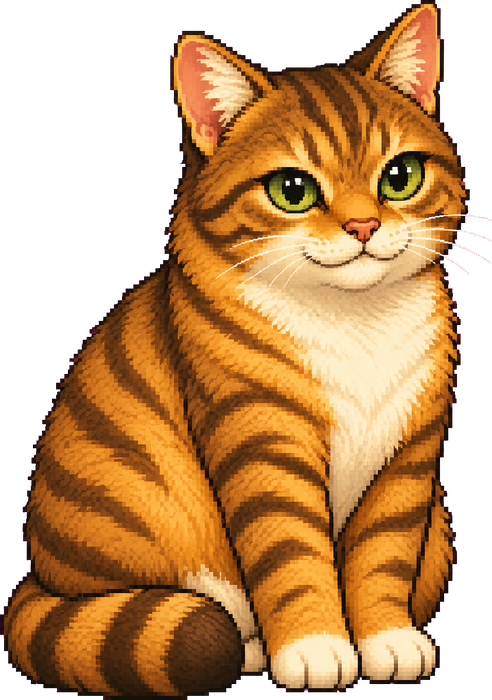
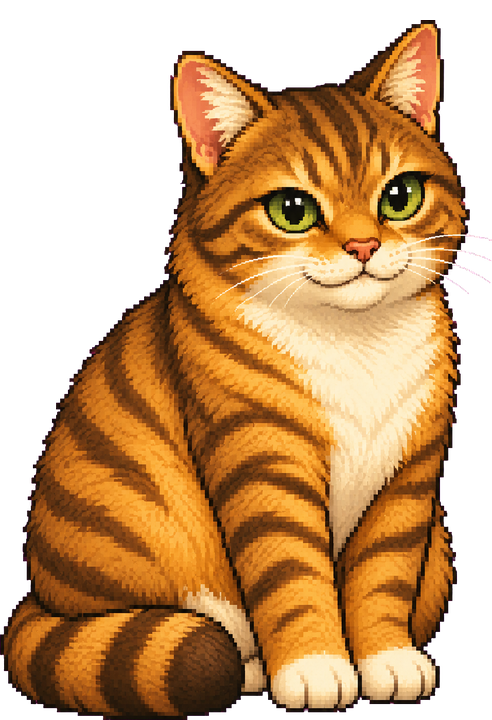
Puiutu: a painted leaf PLAY button, sound and full screen in Settings, NomNom's faces change in her shop
Settings now holds full screen, music on/off, sound effects on/off and Reset game;
the profile drops the friends, achievements and sound buttons, and the location
title over the game is gone. In the forge NomNom laughs at a sale, gets curious
about what you pick, and blinks while she waits.

diff --git a/life_of_puiutu_game.html b/life_of_puiutu_game.html
@@ -127,8 +127,6 @@
   .back-btn{pointer-events:auto;cursor:pointer;background:rgba(20,14,8,.65);border:2px solid #6b4a1f;border-radius:14px;
     padding:6px 12px;color:#ffe7b0;font-weight:bold;font-size:13px;}
   #btnRocky.staying{background:rgba(60,40,16,.8);border-color:#9c7233;color:#caa46a;}
-  .area-name{position:absolute;top:54px;left:0;right:0;text-align:center;color:#fff;font-size:13px;
-    text-shadow:0 2px 5px rgba(0,0,0,.7);z-index:5;opacity:.85;pointer-events:none;}
 
   /* on-screen controls */
   .touch-ctrl{position:absolute;bottom:18px;z-index:6;display:flex;gap:12px;}
@@ -869,7 +867,7 @@
   #museum .fs-tag{left:0;top:0;width:24%;font-size:calc(var(--fs)*.95);transform:translate(-50%,calc(-100% - .8em));z-index:6;}
   #museum .fs-tag.on{animation:muPop .16s ease-out;}
   @keyframes muPop{from{opacity:0;transform:translate(-50%,calc(-100% - .2em));}to{opacity:1;transform:translate(-50%,calc(-100% - .8em));}}
-  #forgeCat{position:absolute;left:79.5%;bottom:18.5%;height:52%;z-index:2;transform:translateX(-50%);
+  #forgeCat{position:absolute;left:79.5%;bottom:18.5%;height:53.5%;z-index:2;transform:translateX(-50%);
     transform-origin:50% 100%;animation:fsBreath 3.4s ease-in-out infinite;pointer-events:none;}
   @keyframes fsBreath{0%,100%{transform:translateX(-50%) scale(1,1);}50%{transform:translateX(-50%) scale(1.006,1.022);}}
   #forgeCat.nod{animation:fsNod .45s ease-out;}
@@ -1055,7 +1053,8 @@
   /* settings: the moved language flags and mode buttons sit in normal flow there */
   #settingsBody{padding:18px;color:#ffe7b0;}
   .set-h{font-size:16px;margin:6px 0 10px;color:#ffd36b;}
-  #settingsBody #langPick, #settingsBody #modePick{position:static;margin-bottom:18px;}
+  #settingsBody #langPick, #settingsBody #modePick, #settingsBody .set-pick{position:static;margin-bottom:18px;}
+  .set-pick{display:flex;gap:8px;}
   .phone-app{flex:1;min-width:0;background:none;border:none;cursor:pointer;display:flex;flex-direction:column;
     align-items:center;gap:5px;padding:0 1px;}
   .pa-ico{width:60%;aspect-ratio:1;background-position:center;background-repeat:no-repeat;background-size:auto 100%;
@@ -1114,11 +1113,6 @@
   #menu #btnPlay{width:clamp(180px,24%,380px);bottom:7%;}
   /* settings signboard: gear on top, the word on its plank (plank = bottom 27% of the art) */
   #btnMenuSettings{right:2.5%;bottom:5%;width:clamp(78px,9%,120px);}
-  #btnFullscreen{position:absolute;left:2.5%;bottom:5%;z-index:6;width:clamp(44px,4.6%,58px);aspect-ratio:1;padding:0;border-radius:12px;cursor:pointer;
-    background:rgba(16,12,8,.62);border:2px solid rgba(243,226,180,.55);box-shadow:0 3px 10px rgba(0,0,0,.45);transition:transform .12s,background .12s;}
-  #btnFullscreen:hover{transform:scale(1.08);background:rgba(36,28,18,.8);}
-  #btnFullscreen svg{width:62%;height:62%;fill:none;stroke:#f3e2b4;stroke-width:2.4;stroke-linecap:round;stroke-linejoin:round;}
-  #btnFullscreen .fsOff{display:none;} body.isFull #btnFullscreen .fsOn{display:none;} body.isFull #btnFullscreen .fsOff{display:inline;}
   #btnMenuSettings img{width:100%;display:block;}
   #btnMenuSettings span{position:absolute;left:8%;right:8%;bottom:7%;height:17%;display:flex;align-items:center;justify-content:center;
     font:bold clamp(10px,1.3vw,15px) 'Trebuchet MS',sans-serif;color:#fff1d0;text-shadow:0 1px 0 #3a1f0c,0 0 3px #3a1f0c;pointer-events:none;}
@@ -1199,7 +1193,6 @@
   body.cine #interactBtn, body.cine #interactPrompt, body.cine #fightBtn,
   body.cine #toast, body.cine .statbar{display:none !important;}
   body.cine{cursor:none;}
-  body.cine .area-name{font-size:15px;letter-spacing:3px;text-shadow:0 2px 8px rgba(0,0,0,.9);}
   body.cine.bars #app::before, body.cine.bars #app::after{
     content:'';position:absolute;left:0;right:0;height:11.5%;background:#000;z-index:60;pointer-events:none;}
   body.cine.bars #app::before{top:0;} body.cine.bars #app::after{bottom:0;}
@@ -1232,11 +1225,6 @@ document.addEventListener('DOMContentLoaded', ()=>{ updateMenuSky(); setInterval
       <button class="img-btn" id="btnProfile" style="display:none;"><img src="ui/btn_profile2.png" alt="Profile"></button>
       <button class="img-btn" id="btnInv" style="display:none;"><img src="ui/btn_inventory.png" alt="Inventory"></button>
       <button class="img-btn play" id="btnPlay"><img src="ui/btn_play.png" alt="Play"></button>
-      <!-- full screen, like a video player's: the whole screen is the game until Esc -->
-      <button id="btnFullscreen" title="Full screen" aria-label="Full screen">
-        <svg class="fsOn" viewBox="0 0 24 24"><path d="M4 9V4h5M15 4h5v5M20 15v5h-5M9 20H4v-5"/></svg>
-        <svg class="fsOff" viewBox="0 0 24 24"><path d="M9 4v5H4M20 9h-5V4M15 20v-5h5M4 15h5v5"/></svg>
-      </button>
       <button class="img-btn" id="btnMenuSettings" title="Settings"><img src="ui/btn_settings_sign.png" alt=""><span>Settings</span></button>
 
       <!-- language: drawn as inline SVG so it needs no art and stays crisp at any size -->
@@ -1280,7 +1268,6 @@ document.addEventListener('DOMContentLoaded', ()=>{ updateMenuSky(); setInterval
         <div class="chip" id="onlineChip" style="display:none;">Online <span id="hudOnline">1</span></div>
       </div>
     </div>
-    <div class="area-name" id="areaName">Garden</div>
     <div id="questHUD"></div>
     <canvas id="gameCanvas"></canvas>
 
@@ -1443,12 +1430,16 @@ document.addEventListener('DOMContentLoaded', ()=>{ updateMenuSky(); setInterval
     </div>
   </div>
 
-  <!-- ============ SETTINGS (from the phone): language, story / free play ============ -->
+  <!-- ============ SETTINGS: language, story / free play, full screen, music, sound effects ============ -->
   <div id="settings" class="modal">
     <div class="modal-head"><h2>Settings</h2><button class="modal-close" data-close="settings"></button></div>
     <div class="modal-body" id="settingsBody">
       <h3 class="set-h">Language</h3><div id="setLang"></div>
       <h3 class="set-h">Game mode</h3><div id="setMode"></div>
+      <h3 class="set-h" id="setFullH">Screen</h3><div class="set-pick" id="setFullRow"><button class="mode-btn" id="setFull">FULLSCREEN</button></div>
+      <h3 class="set-h">Music</h3><div class="set-pick"><button class="mode-btn" id="setMusicOn">ON</button><button class="mode-btn" id="setMusicOff">OFF</button></div>
+      <h3 class="set-h">Sound effects</h3><div class="set-pick"><button class="mode-btn" id="setSfxOn">ON</button><button class="mode-btn" id="setSfxOff">OFF</button></div>
+      <button id="resetBtn" style="margin-top:8px;background:#b5453a;border:2px solid #7a2c24;color:#fff;padding:8px 14px;border-radius:12px;font-weight:bold;cursor:pointer;">↺ Reset game</button>
     </div>
   </div>
 
@@ -4680,6 +4671,7 @@ const RO = {
   "Settings":"Setări",
   "Language":"Limbă",
   "Game mode":"Mod de joc",
+  "Screen":"Ecran", "FULLSCREEN":"ECRAN COMPLET", "Sound effects":"Efecte sonore", "ON":"PORNIT", "OFF":"OPRIT",
   "Best":"Record",
   "Make: Apple":"Fă: Măr",
   "↺ Restart":"↺ Reîncepe",
@@ -5753,7 +5745,6 @@ function enterArea(id,fromRight,toX){
   A.entryX=P.x;                                      // where a faint puts you back: the way you came in
   P.y=480;P.vx=0;P.vy=0;
   nearPortal=null;
-  document.getElementById('areaName').textContent=A.name;
   particles=[]; bananas=[]; bubbles=[];
   // top-down hub vs side-scroll platformer: set up the right mode + on-screen controls
   HUB.inited=false;
@@ -15730,6 +15721,7 @@ function renderStatbars(){
 
 //═══════════════════════════════════════════════════════════════ MODAL RENDER
 function renderModal(id){
+  if(id==='settings')syncSoundSwitches();
   if(id==='shop')renderShop();
   if(id==='forge')renderForge();
   if(id==='museum')renderMuseum();
@@ -15924,17 +15916,26 @@ const FORGE_SAY={
   bell:['Rune bell. Every ring makes your spells bite harder. Do not ring it at night.','Clopoțel runic. Fiecare clinchet face vrăjile să muște mai tare. Nu-l suna noaptea.'],
 };
 let forgeTab='goods', forgeNpc=null, forgeAfterDlg=false, forgeSel=null;
-// NomNom's two faces: content, and the look she gives a cat with empty pockets
-const FORGE_FACE={ happy:'ui/forge/nomnom_shop.png', angry:'ui/forge/nomnom_shop_angry.png' };
+// NomNom's faces: content, delighted at a sale, curious about what you're eyeing, a blink while she
+// waits, and the look she gives a cat with empty pockets
+const FORGE_FACE={ happy:'ui/forge/nomnom_shop.png', angry:'ui/forge/nomnom_shop_angry.png',
+  delighted:'ui/forge/nomnom_shop_delighted.png', curious:'ui/forge/nomnom_shop_curious.png', blink:'ui/forge/nomnom_shop_blink.png' };
 Object.values(FORGE_FACE).forEach(src=>{ const im=new Image(); im.src=src; });   // preload, so the swap never blinks
-let forgeMoodT=0;
+let forgeMoodT=0, forgeFace='happy';
 function forgeMood(m,ms){
   const cat=document.getElementById('forgeCat'); if(!cat) return;
-  const src=FORGE_FACE[m]||FORGE_FACE.happy;
+  const src=FORGE_FACE[m]||FORGE_FACE.happy; forgeFace=m;
   if(!cat.src.endsWith(src)) cat.src=src;
   clearTimeout(forgeMoodT);
   if(m!=='happy' && ms) forgeMoodT=setTimeout(()=>forgeMood('happy'),ms);
 }
+// while the shop is open and she is just content, she blinks every few seconds
+(function forgeBlink(){
+  setTimeout(()=>{ const shop=document.getElementById('forge'), cat=document.getElementById('forgeCat');
+    if(shop && shop.classList.contains('active') && forgeFace==='happy' && cat){
+      cat.src=FORGE_FACE.blink; setTimeout(()=>{ if(forgeFace==='happy') cat.src=FORGE_FACE.happy; },150); }
+    forgeBlink(); }, 2600+Math.random()*3400);
+})();
 const FORGE_BROKE=[
   ['No coins, no broth. That is the whole rule.','Fără monede, fără supă. Asta e toată regula.'],
   ['You are looking at it like it is free. It is not free.','Te uiți la ea de parcă e gratis. Nu e gratis.'],
@@ -16030,7 +16031,7 @@ function forgePick(id){
     const w=forgeWares().find(x=>x.id===id);
     const gated=w && ((w.kind==='forge' && !w.maxed && S.level<FORGE_LV[w.tier]) || (w.kind==='charm' && S.level<w.c.lv));
     if(w && !w.owned && !w.maxed && !gated && S.coins<w.price){ forgeBroke(); renderForge(); return; }
-    forgeMood('happy');
+    forgeMood('curious',3500);
     forgeSay(say?LT(say[0],say[1]):(w&&w.kind==='trick'?LT('A good trick. Merlin swears by it.','Un truc bun. Merlin jură pe el.'):'…'));
     SFX.tone&&SFX.tone(700,0.05,'triangle',0.04); }
   renderForge();
@@ -16077,7 +16078,7 @@ function renderForgeTag(wares){
 }
 const FORGE_THANKS=[['Pleasure doing business.','Plăcerea e de partea mea.'],['Coins on the anvil. Good cat.','Monedele pe nicovală. Pisică bună.'],
   ['Spend it well. Or badly — I already have the coins.','Folosește-o bine. Sau prost — monedele sunt deja la mine.'],['Come back alive, I like repeat customers.','Să te întorci viu, îmi plac clienții fideli.']];
-function forgeThanks(){ const t=FORGE_THANKS[Math.floor(Math.random()*FORGE_THANKS.length)]; forgeSay(LT(t[0],t[1])); forgeMood('happy'); }
+function forgeThanks(){ const t=FORGE_THANKS[Math.floor(Math.random()*FORGE_THANKS.length)]; forgeSay(LT(t[0],t[1])); forgeMood('delighted',2600); }
 function buyCharm(id){
   const c=charmById(id); if(!c || charmOwned(id) || S.coins<c.price || S.level<c.lv) return;
   S.coins-=c.price; S.charmsOwned=S.charmsOwned||[]; S.charmsOwned.push(id);
@@ -16221,10 +16222,6 @@ function journalHTML(){
 function renderProfile(){
   const body=document.getElementById('profileBody');
   const need=xpForLevel(S.level);
-  const catsHTML=Object.keys(CATS).filter(k=>k!=='puiutu').map(k=>{
-    const met=S.catsMet[k];
-    return `<div class="cat-badge ${met?'':'locked'}"><div class="av"><canvas width="58" height="58" data-cat="${k}"></canvas></div>${met?CATS[k].name:'???'}</div>`;
-  }).join('');
   body.innerHTML=`
     <div class="profile-card">
       <img src="ui/profile_pic.png" alt="Puiutu" style="display:block;width:170px;max-width:60%;height:auto;margin:0 auto 6px;filter:drop-shadow(0 4px 8px rgba(60,35,10,.35));">
@@ -16237,40 +16234,10 @@ function renderProfile(){
       <div class="prow" style="border:none"><span>Friends met</span><span> ${Object.keys(S.catsMet).length} / 3</span></div>
       <div class="prow"><span>Enemies defeated</span><span> ${S.totalDefeats||0}</span></div>
       <div class="prow" style="border:none"><span>Fish collected (total)</span><span> ${S.totalFish||0}</span></div>
-      <div style="margin-top:10px;font-weight:bold;color:#5a3d18;">Friends:</div>
-      <div class="cats-met">${catsHTML}</div>
 
       ${journalHTML()}
 
-      <div style="margin-top:14px;font-weight:bold;color:#5a3d18;"> Achievements (${S.achievements.length}/${ACHIEVEMENTS.length}):</div>
-      <div class="ach-grid">${ACHIEVEMENTS.map(a=>{
-        const got=S.achievements.indexOf(a.id)>=0;
-        return `<div class="ach-cell ${got?'':'locked'}" title="${a.desc}"><div class="ai">${got?a.emoji:''}</div><div class="an">${got?a.name:'???'}</div></div>`;
-      }).join('')}</div>
-
-      <div style="margin-top:14px;display:flex;gap:8px;justify-content:center;">
-        <button id="sndBtn" class="toggle-btn">${S.soundOn?'Sound':'Sound'}</button>
-        <button id="musBtn" class="toggle-btn">${S.musicOn?'Music':'̶ Music'}</button>
-      </div>
-      <button id="resetBtn" style="margin-top:14px;background:#b5453a;border:2px solid #7a2c24;color:#fff;padding:8px 14px;border-radius:12px;font-weight:bold;cursor:pointer;">↺ Reset game</button>
     </div>`;
-  // draw avatars
-  body.querySelectorAll('[data-cat]').forEach(cv2=>{
-    const k=cv2.dataset.cat;const c2=cv2.getContext('2d');
-    if(S.catsMet[k]){
-      const spr=SPRITES[k];
-      if(spr&&spr.complete&&spr.naturalWidth) paintPortrait(c2,58,spr,'#cfe6a8');
-      else { c2.fillStyle='#cfe6a8';c2.fillRect(0,0,58,58);drawCat(c2,29,57,1,0,CATS[k],{scale:.74}); }
-    }
-    else{c2.fillStyle='#555';c2.fillRect(0,0,58,58);c2.fillStyle='#999';c2.font='bold 30px Trebuchet MS';c2.textAlign='center';c2.fillText('?',29,40);}
-  });
-  document.getElementById('sndBtn').onclick=()=>{ S.soundOn=!S.soundOn; save(); if(S.soundOn)SFX.click(); renderProfile(); };
-  document.getElementById('musBtn').onclick=()=>{ S.musicOn=!S.musicOn; save();
-    SFX.ac(); zoneMusic();
-    renderProfile(); };
-  document.getElementById('resetBtn').onclick=()=>{
-    if(confirm(T('Reset all progress?'))){localStorage.removeItem('puiutu_save');S=load();A=null;AREAS=buildAreas();enterArea('garden',false);syncHUD();renderStatbars();renderProfile();updateQuestHUD();toast('Game reset!');}
-  };
 }
 function walletHTML(){
   const p=moneyParts(S.coins);
@@ -17883,14 +17850,14 @@ window.addEventListener('message',e=>{
 document.getElementById('btnWar').addEventListener('click',warOpen);
 // Full screen: the whole page, so the game, its menus and Border War all come with it. Browsers
 // that cannot (iPhone Safari) get no button rather than one that does nothing.
-{ const fsBtn=document.getElementById('btnFullscreen'), de=document.documentElement;
+{ const fsBtn=document.getElementById('setFull'), de=document.documentElement;
   const fsEl=()=>document.fullscreenElement||document.webkitFullscreenElement;
   const canFs=!!(de.requestFullscreen||de.webkitRequestFullscreen);
-  if(!canFs) fsBtn.style.display='none';
+  if(!canFs){ document.getElementById('setFullH').style.display='none'; document.getElementById('setFullRow').style.display='none'; }
   fsBtn.addEventListener('click',()=>{ SFX&&SFX.click&&SFX.click();
     if(fsEl()) (document.exitFullscreen||document.webkitExitFullscreen).call(document);
     else { const r=(de.requestFullscreen||de.webkitRequestFullscreen).call(de,{navigationUI:'hide'}); if(r&&r.catch) r.catch(()=>{}); } });
-  const sync=()=>{ document.body.classList.toggle('isFull',!!fsEl()); fsBtn.title=fsEl()?T('Exit full screen'):T('Full screen'); setTimeout(resize,60); };
+  const sync=()=>{ document.body.classList.toggle('isFull',!!fsEl()); fsBtn.classList.toggle('on',!!fsEl()); setTimeout(resize,60); };
   document.addEventListener('fullscreenchange',sync); document.addEventListener('webkitfullscreenchange',sync); }
 document.getElementById('btnShopTop').addEventListener('click',()=>{ openModal('shop'); SFX&&SFX.click&&SFX.click(); });
 document.getElementById('gachaRoll').addEventListener('click',gachaRoll);
@@ -17947,6 +17914,19 @@ function updatePhoneClock(){
 document.getElementById('btnPhone').addEventListener('click',()=>{ updatePhoneClock(); openModal('phone'); });
 document.getElementById('btnSettings').addEventListener('click',()=>openModal('settings'));
 document.getElementById('btnMenuSettings').addEventListener('click',()=>openModal('settings'));
+function syncSoundSwitches(){
+  [['setMusicOn',S.musicOn],['setMusicOff',!S.musicOn],['setSfxOn',S.soundOn],['setSfxOff',!S.soundOn]]
+    .forEach(([id,on])=>document.getElementById(id).classList.toggle('on',on)); }
+function setMusicOn(on){ S.musicOn=on; save(); SFX.ac(); zoneMusic(); syncSoundSwitches(); }
+function setSfxOn(on){ S.soundOn=on; save(); if(on) SFX.click(); syncSoundSwitches(); }
+document.getElementById('setMusicOn').addEventListener('click',()=>setMusicOn(true));
+document.getElementById('setMusicOff').addEventListener('click',()=>setMusicOn(false));
+document.getElementById('setSfxOn').addEventListener('click',()=>setSfxOn(true));
+document.getElementById('setSfxOff').addEventListener('click',()=>setSfxOn(false));
+syncSoundSwitches();
+document.getElementById('resetBtn').onclick=()=>{
+    if(confirm(T('Reset all progress?'))){localStorage.removeItem('puiutu_save');S=load();A=null;AREAS=buildAreas();enterArea('garden',false);syncHUD();renderStatbars();renderProfile();updateQuestHUD();toast('Game reset!');}
+};
 setInterval(()=>{ const m=document.getElementById('phone'); if(m&&m.classList.contains('active')) updatePhoneClock(); }, 1000);
 // Apps open ON the phone, like a real one: the app's window is moved onto the phone's screen (it keeps
 // every id, so the game draws it as usual), with a bar and a back button; back puts it home again.
